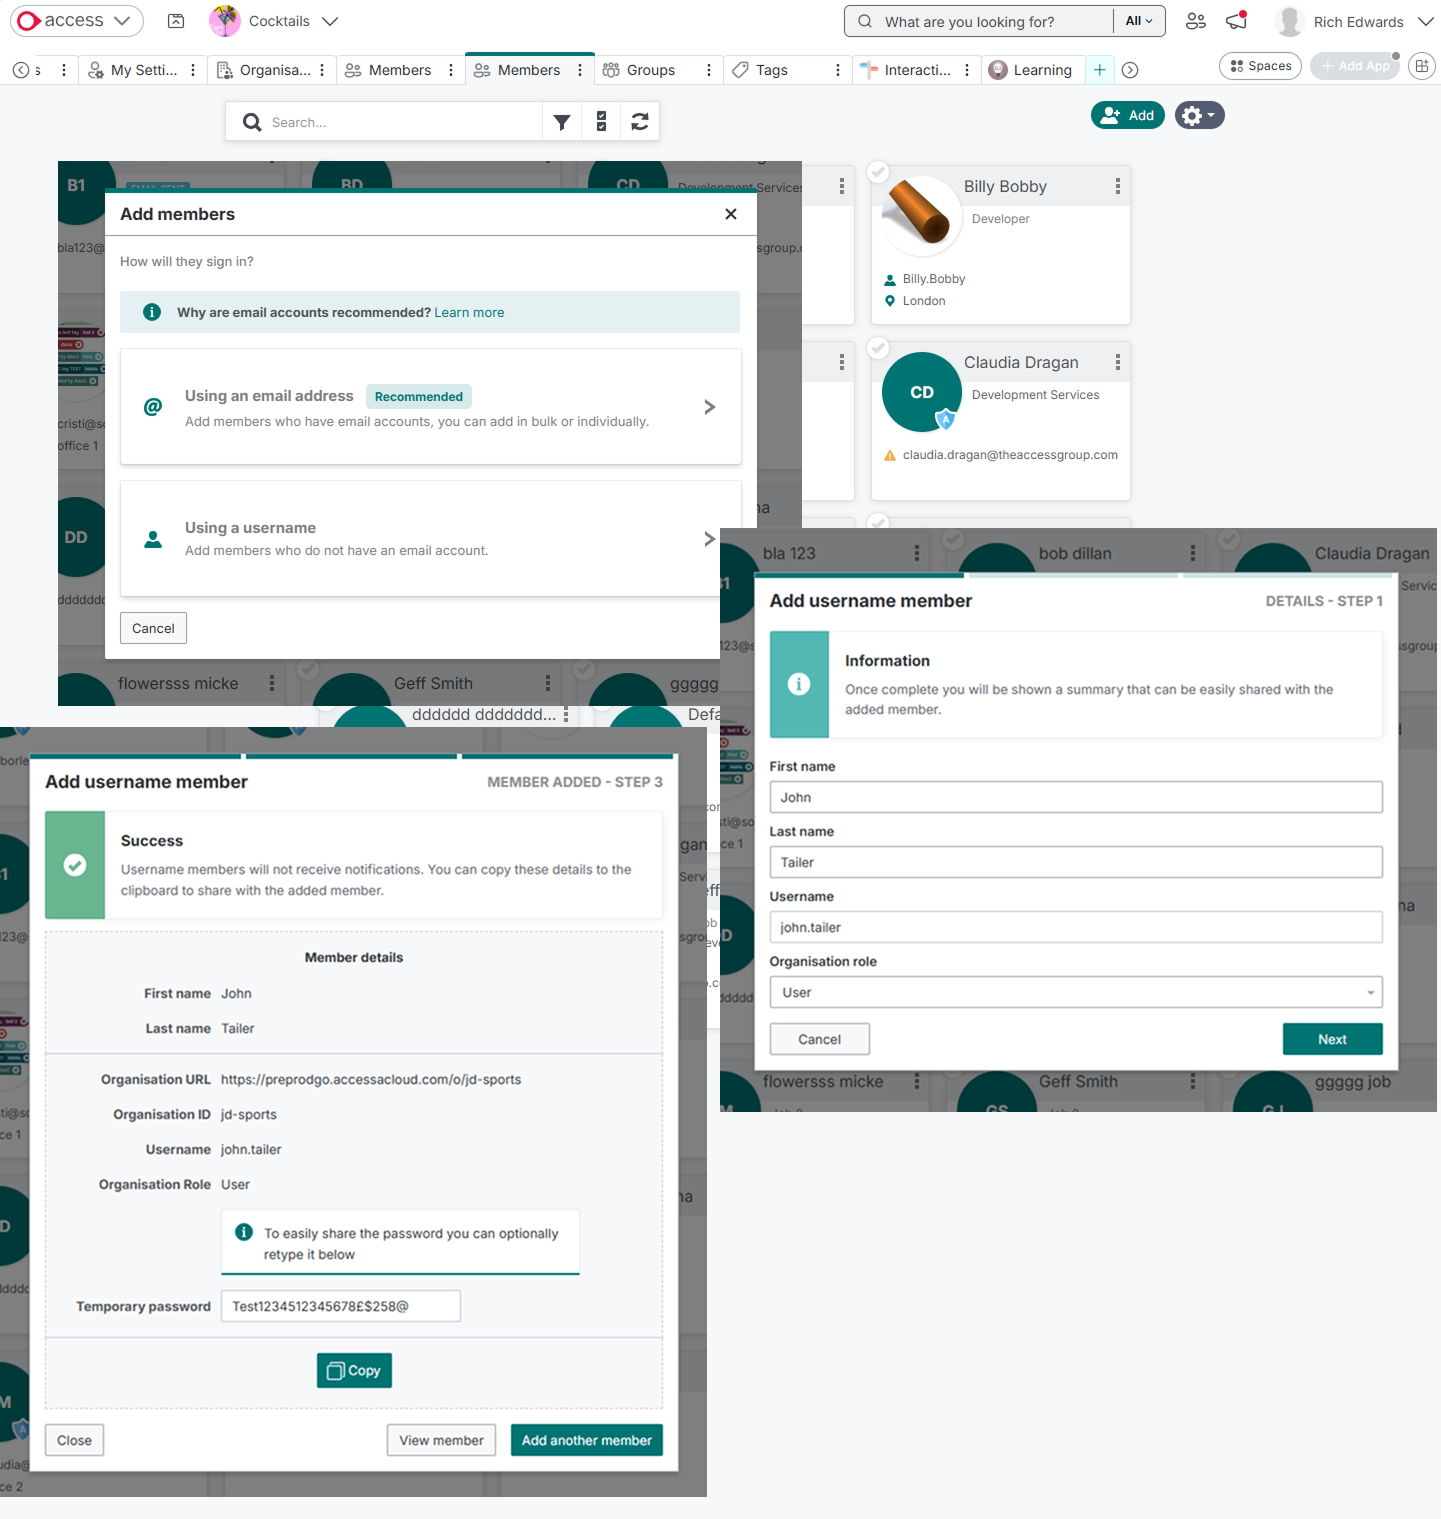
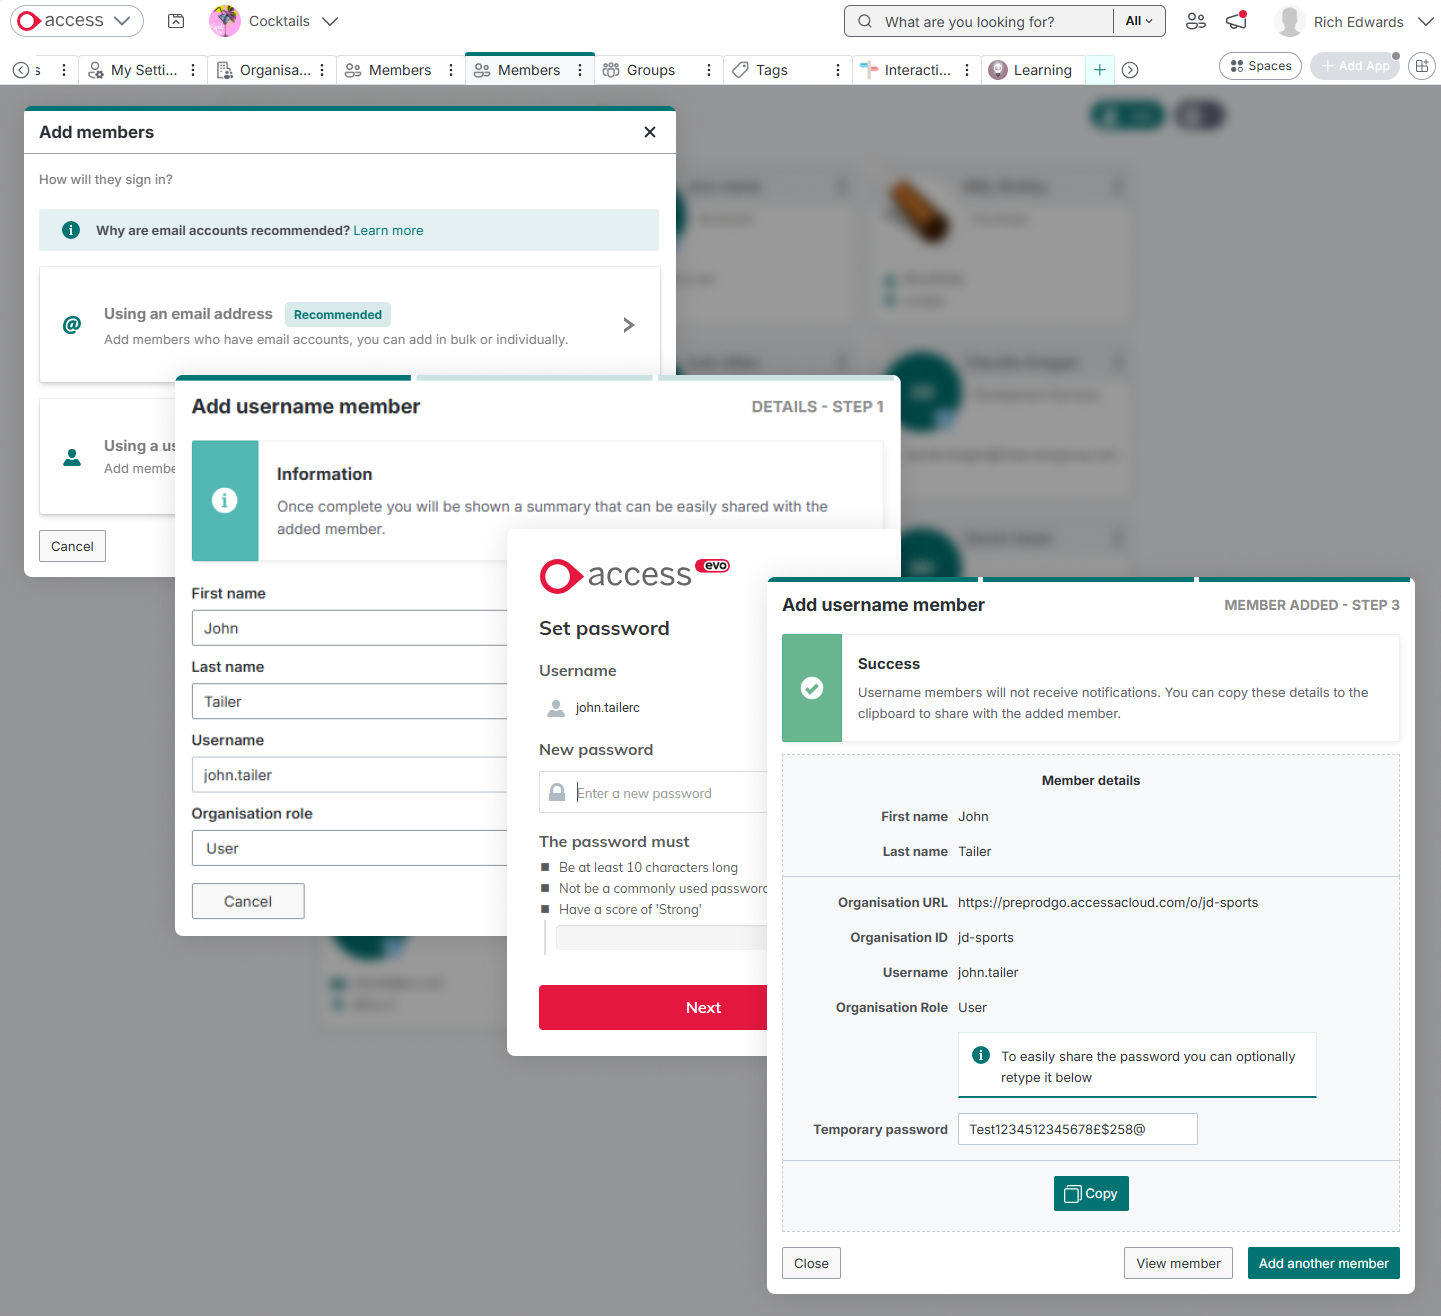
Add files via upload

diff --git a/index.html b/index.html
@@ -16,8 +16,128 @@
     
     <style>
         body { font-family: 'Inter', sans-serif; }
-        .gradient-bg { background: linear-gradient(135deg, #667eea 0%, #764ba2 100%); }
+        .gradient-bg { 
+            background: linear-gradient(135deg, #667eea 0%, #764ba2 50%, #667eea 100%);
+            background-size: 400% 400%;
+            animation: gradientShift 8s ease-in-out infinite;
+        }
         .glass-effect { backdrop-filter: blur(10px); background: rgba(255, 255, 255, 0.1); }
+        
+        /* Custom animations */
+        @keyframes gradientShift {
+            0%, 100% { background-position: 0% 50%; }
+            50% { background-position: 100% 50%; }
+        }
+        
+        @keyframes fadeInUp {
+            from {
+                opacity: 0;
+                transform: translateY(30px);
+            }
+            to {
+                opacity: 1;
+                transform: translateY(0);
+            }
+        }
+        
+        @keyframes fadeInScale {
+            from {
+                opacity: 0;
+                transform: scale(0.9);
+            }
+            to {
+                opacity: 1;
+                transform: scale(1);
+            }
+        }
+        
+        @keyframes float {
+            0%, 100% { transform: translateY(0px) rotate(0deg); }
+            33% { transform: translateY(-20px) rotate(120deg); }
+            66% { transform: translateY(10px) rotate(240deg); }
+        }
+        
+        @keyframes floatReverse {
+            0%, 100% { transform: translateY(0px) rotate(0deg); }
+            33% { transform: translateY(15px) rotate(-90deg); }
+            66% { transform: translateY(-25px) rotate(-180deg); }
+        }
+        
+        @keyframes sparkle {
+            0%, 100% { opacity: 0.3; transform: scale(0.8) rotate(0deg); }
+            50% { opacity: 1; transform: scale(1.2) rotate(180deg); }
+        }
+        
+        @keyframes slideInLeft {
+            from {
+                opacity: 0;
+                transform: translateX(-50px);
+            }
+            to {
+                opacity: 1;
+                transform: translateX(0);
+            }
+        }
+        
+        @keyframes slideInRight {
+            from {
+                opacity: 0;
+                transform: translateX(50px);
+            }
+            to {
+                opacity: 1;
+                transform: translateX(0);
+            }
+        }
+        
+        /* Animation classes */
+        .animate-fade-in-up {
+            animation: fadeInUp 1s ease-out;
+        }
+        
+        .animate-fade-in-scale {
+            animation: fadeInScale 1.2s ease-out;
+        }
+        
+        .animate-float {
+            animation: float 6s ease-in-out infinite;
+        }
+        
+        .animate-float-reverse {
+            animation: floatReverse 8s ease-in-out infinite;
+        }
+        
+        .animate-sparkle {
+            animation: sparkle 4s ease-in-out infinite;
+        }
+        
+        .animate-slide-in-left {
+            animation: slideInLeft 1s ease-out 0.3s both;
+        }
+        
+        .animate-slide-in-right {
+            animation: slideInRight 1s ease-out 0.6s both;
+        }
+        
+        .stagger-1 { animation-delay: 0.2s; }
+        .stagger-2 { animation-delay: 0.4s; }
+        .stagger-3 { animation-delay: 0.6s; }
+        .stagger-4 { animation-delay: 0.8s; }
+        .stagger-5 { animation-delay: 1s; }
+        
+        /* Enhanced button hover effects */
+        .btn-enhanced:hover {
+            transform: translateY(-2px);
+            transition: all 0.3s ease;
+        }
+        
+        .floating-element {
+            transition: all 0.3s ease;
+        }
+        
+        .floating-element:hover {
+            transform: scale(1.1) !important;
+        }
     </style>
 </head>
 <body class="bg-base-100">
@@ -62,31 +182,41 @@
         <div class="hero-overlay bg-opacity-20"></div>
         <div class="hero-content text-center text-white z-10">
             <div class="max-w-4xl">
-                <div class="avatar mb-8">
+                <div class="avatar mb-8 animate-fade-in-scale">
                     <div class="w-32 rounded-full ring ring-white ring-offset-base-100 ring-offset-2">
                         <img src="images/rich-edwards.png" alt="Rich Edwards - DesignOps Manager" />
                     </div>
                 </div>
-                <h1 class="text-5xl md:text-7xl font-bold mb-6">
+                <h1 class="text-5xl md:text-7xl font-bold mb-6 animate-fade-in-up stagger-1">
                     Richard Edwards
                 </h1>
-                <p class="text-xl md:text-2xl mb-4 font-light">
+                <p class="text-xl md:text-2xl mb-4 font-light animate-fade-in-up stagger-2">
                     DesignOps Manager | UX & Design Systems Leader
                 </p>
-                <p class="text-lg mb-8 max-w-3xl mx-auto opacity-90">
+                <p class="text-lg mb-8 max-w-3xl mx-auto opacity-90 animate-fade-in-up stagger-3">
                     Innovative DesignOps Manager with over 20 years of experience in UX, design systems, and operational excellence. Proven success in scaling design operations, aligning cross-functional teams, and implementing systems that elevate design quality and efficiency across enterprise software products. Skilled in governance, AI-integrated workflows, and leading design transformation within large organisations.
                 </p>
-                <div class="flex flex-col sm:flex-row gap-4 justify-center">
-                    <a href="#dsportfolio" class="btn btn-lg btn-white text-primary">View My Work</a>
-                    <a href="#contact" class="btn btn-lg btn-outline btn-white text-white border-white" onmouseover="this.style.backgroundColor='#30007C'" onmouseout="this.style.backgroundColor='transparent'">Let's Connect</a>
+                <div class="flex flex-col sm:flex-row gap-4 justify-center animate-fade-in-up stagger-4">
+                    <a href="#dsportfolio" class="btn btn-lg btn-white text-primary btn-enhanced">View My Work</a>
+                    <a href="#contact" class="btn btn-lg btn-outline btn-white text-white border-white btn-enhanced" onmouseover="this.style.backgroundColor='#30007C'" onmouseout="this.style.backgroundColor='transparent'">Let's Connect</a>
                 </div>
             </div>
         </div>
         
-        <!-- Floating elements for visual interest -->
-        <div class="absolute top-20 left-10 w-20 h-20 bg-white bg-opacity-10 rounded-full animate-pulse"></div>
-        <div class="absolute bottom-32 right-16 w-16 h-16 bg-white bg-opacity-10 rounded-full animate-bounce"></div>
-        <div class="absolute top-1/2 right-10 w-12 h-12 bg-white bg-opacity-10 rounded-full animate-ping"></div>
+        <!-- Enhanced floating elements for visual interest -->
+        <div class="absolute top-20 left-10 w-20 h-20 bg-white bg-opacity-10 rounded-full animate-float floating-element"></div>
+        <div class="absolute bottom-32 right-16 w-16 h-16 bg-white bg-opacity-15 rounded-full animate-float-reverse floating-element"></div>
+        <div class="absolute top-1/2 right-10 w-12 h-12 bg-white bg-opacity-20 rounded-full animate-sparkle floating-element"></div>
+        
+        <!-- Additional floating elements -->
+        <div class="absolute top-1/3 left-1/4 w-8 h-8 bg-white bg-opacity-10 rounded-full animate-float floating-element" style="animation-delay: 1s;"></div>
+        <div class="absolute bottom-1/4 left-1/3 w-14 h-14 bg-white bg-opacity-8 rounded-full animate-sparkle floating-element" style="animation-delay: 2s;"></div>
+        <div class="absolute top-3/4 right-1/4 w-10 h-10 bg-white bg-opacity-12 rounded-full animate-float-reverse floating-element" style="animation-delay: 0.5s;"></div>
+        <div class="absolute top-1/4 right-1/3 w-6 h-6 bg-white bg-opacity-15 rounded-full animate-sparkle floating-element" style="animation-delay: 3s;"></div>
+        
+        <!-- Animated particles -->
+        <div class="absolute top-10 right-20 w-4 h-4 bg-white bg-opacity-20 rounded-full animate-ping floating-element" style="animation-delay: 1.5s;"></div>
+        <div class="absolute bottom-20 left-20 w-3 h-3 bg-white bg-opacity-25 rounded-full animate-pulse floating-element" style="animation-delay: 2.5s;"></div>
     </section>
 
     <!-- About Section -->
@@ -553,7 +683,7 @@
                         <div class="space-y-4">
                     <div class="text-center">
                         <h3 class="text-2xl font-bold mb-2">People HR Smart Menu</h3>
-                        <p class="text-base-content/80 max-w-6xl mx-auto">A smart menu design for People HR, enhancing user navigation and accessibility.</p>
+                        <p class="text-base-content/80 max-w-6xl mx-auto">New smart menu design for People HR, giving the ability to quickly surface information from the menu rather than drilling down deep into the application, improving overall user experience.</p>
                     </div>
                     <div class="group">
                         <div class="w-full rounded-xl overflow-hidden shadow-lg">
@@ -575,21 +705,11 @@
                     </div>
                         </div>                        
                         <!-- Portfolio Image 9 -->
+
                     <div class="space-y-4">
                     <div class="text-center">
-                        <h3 class="text-2xl font-bold mb-2">Username & Password</h3>
-                        <p class="text-base-content/80 max-w-6xl mx-auto">This was a complex problem to solve, not all our users have access to email so we needed a way to create accounts using a username and password.</p>
-                    </div>
-                    <div class="group">
-                        <div class="w-full rounded-xl overflow-hidden shadow-lg">
-                            <img src="images/username-password.png" alt="Button types and states - Design System Components showing primary, secondary, tertiary, ghost, and destructive button variants in default, hover, focused, and disabled states" class="w-full h-full object-cover" loading="lazy" />
-                        </div>
-                    </div>
-                        </div>
-                    <div class="space-y-4">
-                    <div class="text-center">
-                        <h3 class="text-2xl font-bold mb-2">New member UI</h3>
-                        <p class="text-base-content/80 max-w-6xl mx-auto">Designed the new members page modernising and improving user experience.</p>
+                        <h3 class="text-2xl font-bold mb-2">New Members Dashboard </h3>
+                        <p class="text-base-content/80 max-w-6xl mx-auto">Our members dashboard was looking out of date so I redesigned the dashboard modernising and improving user experience and accessibility.</p>
                     </div>
                     <div class="group">
                         <div class="w-full rounded-xl overflow-hidden shadow-lg">
@@ -610,6 +730,17 @@
                         </div>
                     </div>
                         </div>
+                    <div class="space-y-4">
+                    <div class="text-center">
+                        <h3 class="text-2xl font-bold mb-2">Username & Password</h3>
+                        <p class="text-base-content/80 max-w-6xl mx-auto">This was a complex problem to solve, not all our users have access to email so we needed a way to create accounts using a username and password handled by administrators.</p>
+                    </div>
+                    <div class="group">
+                        <div class="w-full rounded-xl overflow-hidden shadow-lg">
+                            <img src="images/username-password.png" alt="Button types and states - Design System Components showing primary, secondary, tertiary, ghost, and destructive button variants in default, hover, focused, and disabled states" class="w-full h-full object-cover" loading="lazy" />
+                        </div>
+                    </div>
+                        </div>                        
                         <!-- Portfolio Image 11 -->
                     <div class="space-y-4">
                     <div class="text-center">
